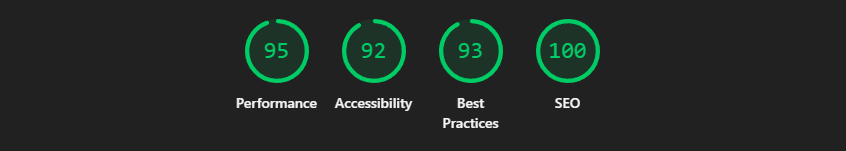
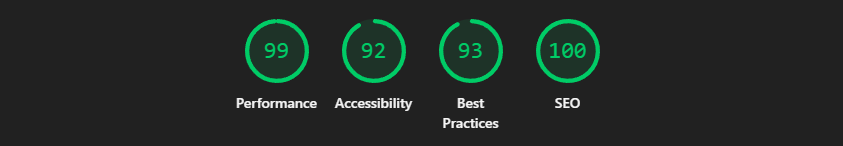
fix: Update Lighthouse performance score to reflect recent improvements

diff --git a/README.md b/README.md
@@ -18,7 +18,7 @@ Built with **Next.js**, **TypeScript**, and **Tailwind CSS** using clean code co
 
 ![Lighthouse scores](assets/lighthouse_metrics.png)
 
-- **Performance:** 95
+- **Performance:** 99
 - **Accessibility:** 92
 - **Best Practices:** 93
 - **SEO:** 100
